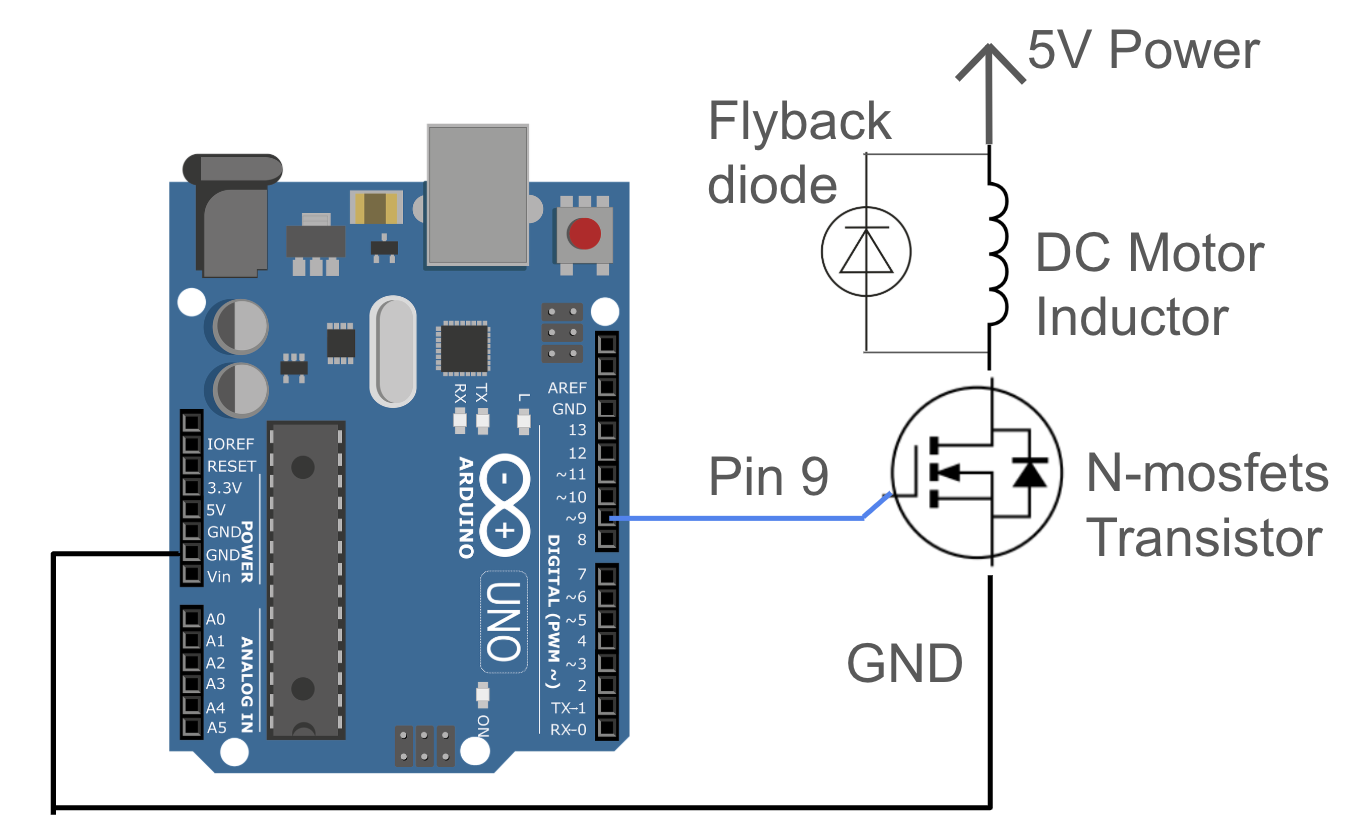
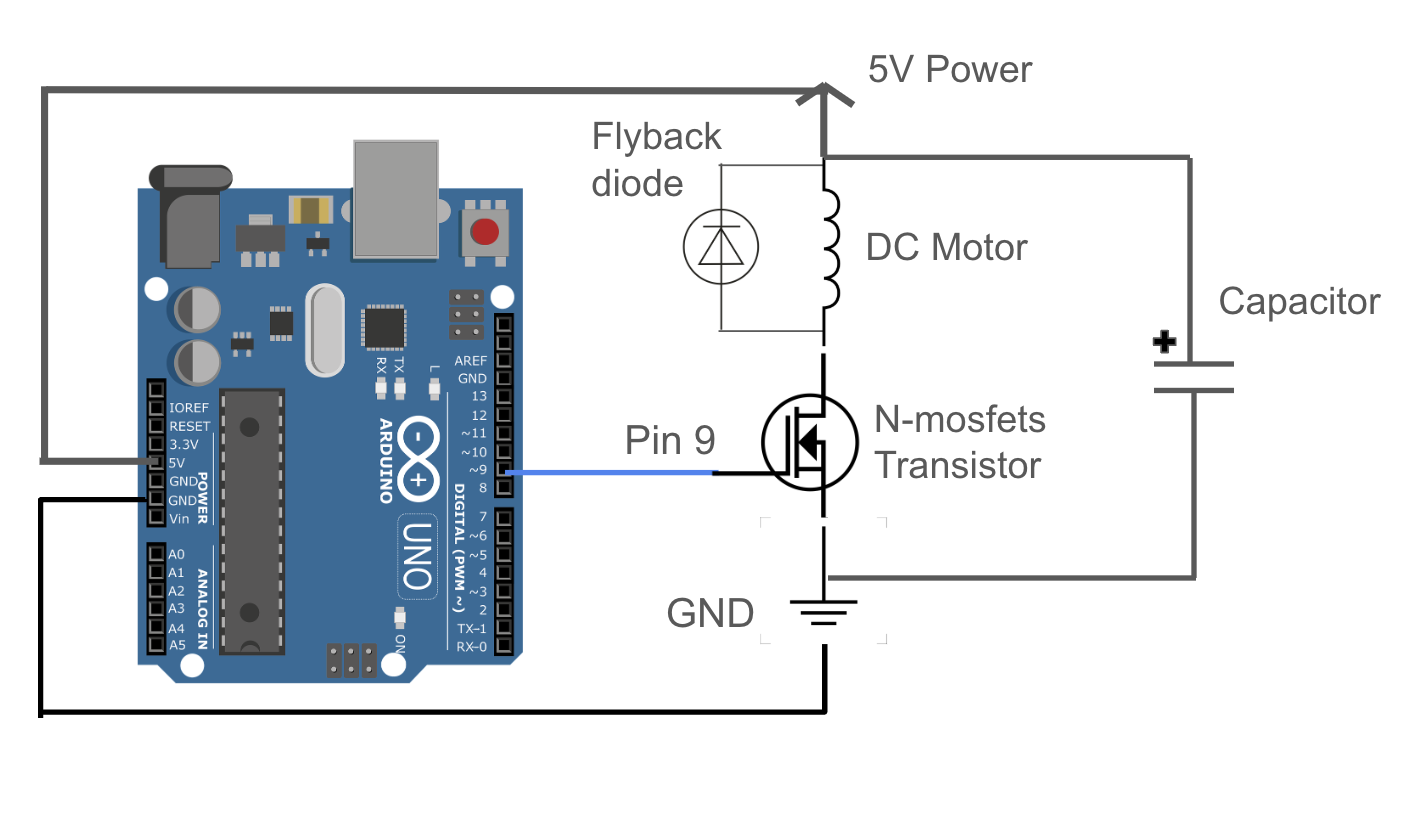
A5 again

Changed region(s): [[0.0, 0.0312, 0.9912, 0.9976], [0.5575, 0.3741, 0.5885, 0.4053], [0.4956, 0.3741, 0.5265, 0.4053]]

diff --git a/a5.html b/a5.html
@@ -101,6 +101,9 @@
         <p> 
           flyback diode: https://www.ti.com/lit/ds/symlink/lm5180-q1.pdf?ts=1739844289471&ref_url=https%253A%252F%252Fwww.google.com%252F
         </p>
+        <p>
+          capacitor: https://www.mouser.com/c/ds/passive-components/capacitors/?srsltid=AfmBOoqyMgYE2I7XZe_TnHOgK03kRWShnSXSEnYHCWAApxK_4NEAuaZ8
+        </p>
         <h3>Question 3</h3>
         <img src="A5_question3.png"/> 
         <p>
